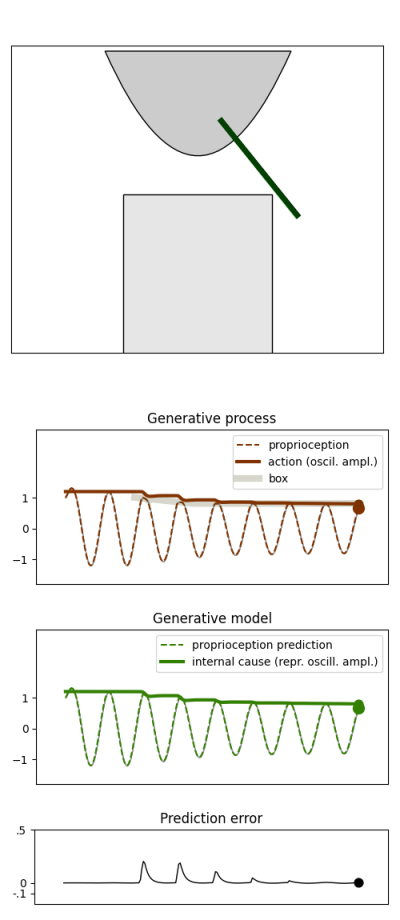
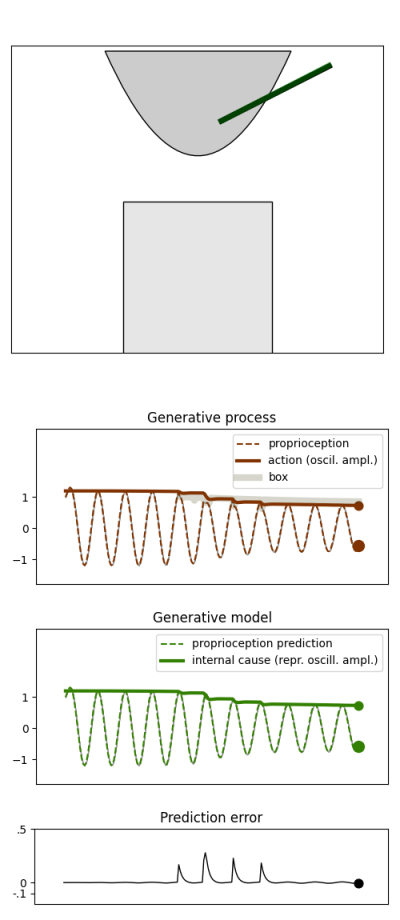
precisions

diff --git a/src/demo.py b/src/demo.py
@@ -28,11 +28,13 @@ for type in ["normal", "large", "still"]:
 
     stime = 240000
 
-    gp = GP(dt=0.0003, freq=0.5, amp=1.2)
-    gm = GM(dt=0.0003, freq=0.5, amp=1.2)
+    gp = GP(dt=0.0004, freq=0.5, amp=1.2)
+    gm = GM(dt=0.0004, freq=0.5, amp=1.2)
 
-    sim = Sim("demo_"+type, points=normal_box
-              if type == "normal" or type == "still" else large_box)
+    points = (normal_box if type == "normal" or
+              type == "still" else large_box)
+    sim = Sim("demo_"+type, points=points)
+
     prederr = PredErrPlotter("prederr", type, stime)
     genProcPlot = Plotter("gen_proc_"+type, type="process",
                           wallcolor=[0.2, 0.2, 0, 0.2],
@@ -58,19 +60,18 @@ for type in ["normal", "large", "still"]:
 
         # compute box position
         if type == "normal" or type == "large":
-            box_pos = np.array([0,
-                                np.maximum(1.3, 2.2*np.exp(-3*t/stime)+0.7)])
+            box_pos = np.array([0, 1.3 + 1.6*np.exp(-3*t/stime)])
         else:
             box_pos = np.array([0, 5]) if t < stime*(36/100) \
                 else np.array([0, 1.48])
         sim.move_box(box_pos)
 
-        # compute collision
-        collision, curr_angle_limit = sim.detect_collision()
+        # move and conpute collision
+        collision, curr_angle_limit = sim.move_box(box_pos)
 
         # update process
-        gp.update(delta_action)
         gp.mu_x[2] = np.minimum(curr_angle_limit, gp.mu_x[2])
+        gp.update(delta_action)
 
         # get state
         sens[t] = gp.mu_x[2]
@@ -89,7 +90,6 @@ for type in ["normal", "large", "still"]:
 
             sim.set_box()
             sim.update(sens[t], sens_model[t])
-
 
             prederr.update([sens[t], sens_model[t]], t)
             genProcPlot.update([sens[t], ampl[t],

diff --git a/src/sim.py b/src/sim.py
@@ -23,7 +23,6 @@ def ik_angle(origin, point):
         angle = np.arctan(aa)
     return angle
 
-
 class Sim:
 
     def __init__(self, name, points):
@@ -60,6 +59,7 @@ class Sim:
         self.angle = None
         self.box = None
         self.box_points_init = np.array(points)
+        self.box_points = self.box_points_init.copy()
         self.box_pos = 3
         self.move_box([0, self.box_pos])
         self.set_box()
@@ -70,6 +70,8 @@ class Sim:
 
     def move_box(self, pos):
         self.box_points = self.box_points_init + pos
+        collision, curr_angle_limit = self.detect_collision()
+        return collision, curr_angle_limit
 
     def set_box(self):
         if self.box is not None:
@@ -115,7 +117,7 @@ class Sim:
         curr_angle_limit = np.pi
         if in_collision_with_vertex:
 
-            if self.box_points[0][0] > self.whisker_vertices[1][0]:
+            if self.box_points[0][0] - 0.1 > self.whisker_vertices[1][0]:
                 angle_to_box_vertex = ik_angle(self.whisker_base,
                                                self.box_points[0])
                 angle_to_box_vertex = np.abs(angle_to_box_vertex +
@@ -123,7 +125,7 @@ class Sim:
                 curr_angle_limit = angle_to_box_vertex
             else:
                 box_height_whisk_angle = -np.arcsin(
-                    (box_height - self.whisker_base[1]) / self.whisker_len)
+                    (box_height - 0.1 - self.whisker_base[1]) / self.whisker_len)
                 box_height_whisk_angle = np.abs(
                     box_height_whisk_angle + self.whisker_base_angle)
                 curr_angle_limit = box_height_whisk_angle

diff --git a/src/aisailib.py b/src/aisailib.py
@@ -8,7 +8,7 @@ def f(x, a, h):
 
 
 def p2std(p):
-    return 10000*np.exp(-p)
+    return np.exp(-p)
 
 # %%
 
@@ -35,8 +35,8 @@ class GP:
 
     def __init__(self, dt=0.0005, freq=0.01, amp=0.1):
 
-        self.pi_s = 9
-        self.pi_x = 9
+        self.pi_s = -.3
+        self.pi_x = -.3
         self.mu_x = np.ones(3)
         self.mu_s = 1
         self.omega_s = p2std(self.pi_s)
@@ -88,8 +88,8 @@ class GM:
     def __init__(self, dt=0.0005, eta=0.0005,
                  freq=0.001, amp=np.pi/2):
 
-        self.pi_s = 9
-        self.pi_x = 9
+        self.pi_s = -.3
+        self.pi_x = -.3
 
         self.mu_x = np.ones(3)
         self.dmu_x = np.ones(3)
@@ -144,11 +144,9 @@ class GM:
         self.dmu_x[2] = self.mu_nu*self.mu_x[0] - self.mu_x[2]
 
         # update with gradients
-        dmu_noise = self.omega_x*rng.randn(*self.mu_x.shape)
-        ddmu_noise = self.omega_x*rng.randn(*self.mu_x.shape)
         self.mu_x += self.dt*(self.dmu_x
-            - self.eta * (self.gd_mu_x + dmu_noise
-                          + self.eta*(self.gd_dmu_x + ddmu_noise)))
+            - self.eta * (self.gd_mu_x
+                          + self.eta*(self.gd_dmu_x)))
 
         self.mu_nu += self.dt*self.gd_a
         return self.gd_a
@@ -156,8 +154,8 @@ class GM:
 
 if __name__ == "__main__":
 
-    gp = GP(dt=0.0005, freq=0.5, amp=1)
-    gm = GM(dt=0.0005, eta=0.1, freq=0.5, amp=1)
+    gp = GP(dt=0.0003, freq=0.5, amp=1)
+    gm = GM(dt=0.0003, eta=0.001, freq=0.5, amp=1)
 
     # %%
     data = []
